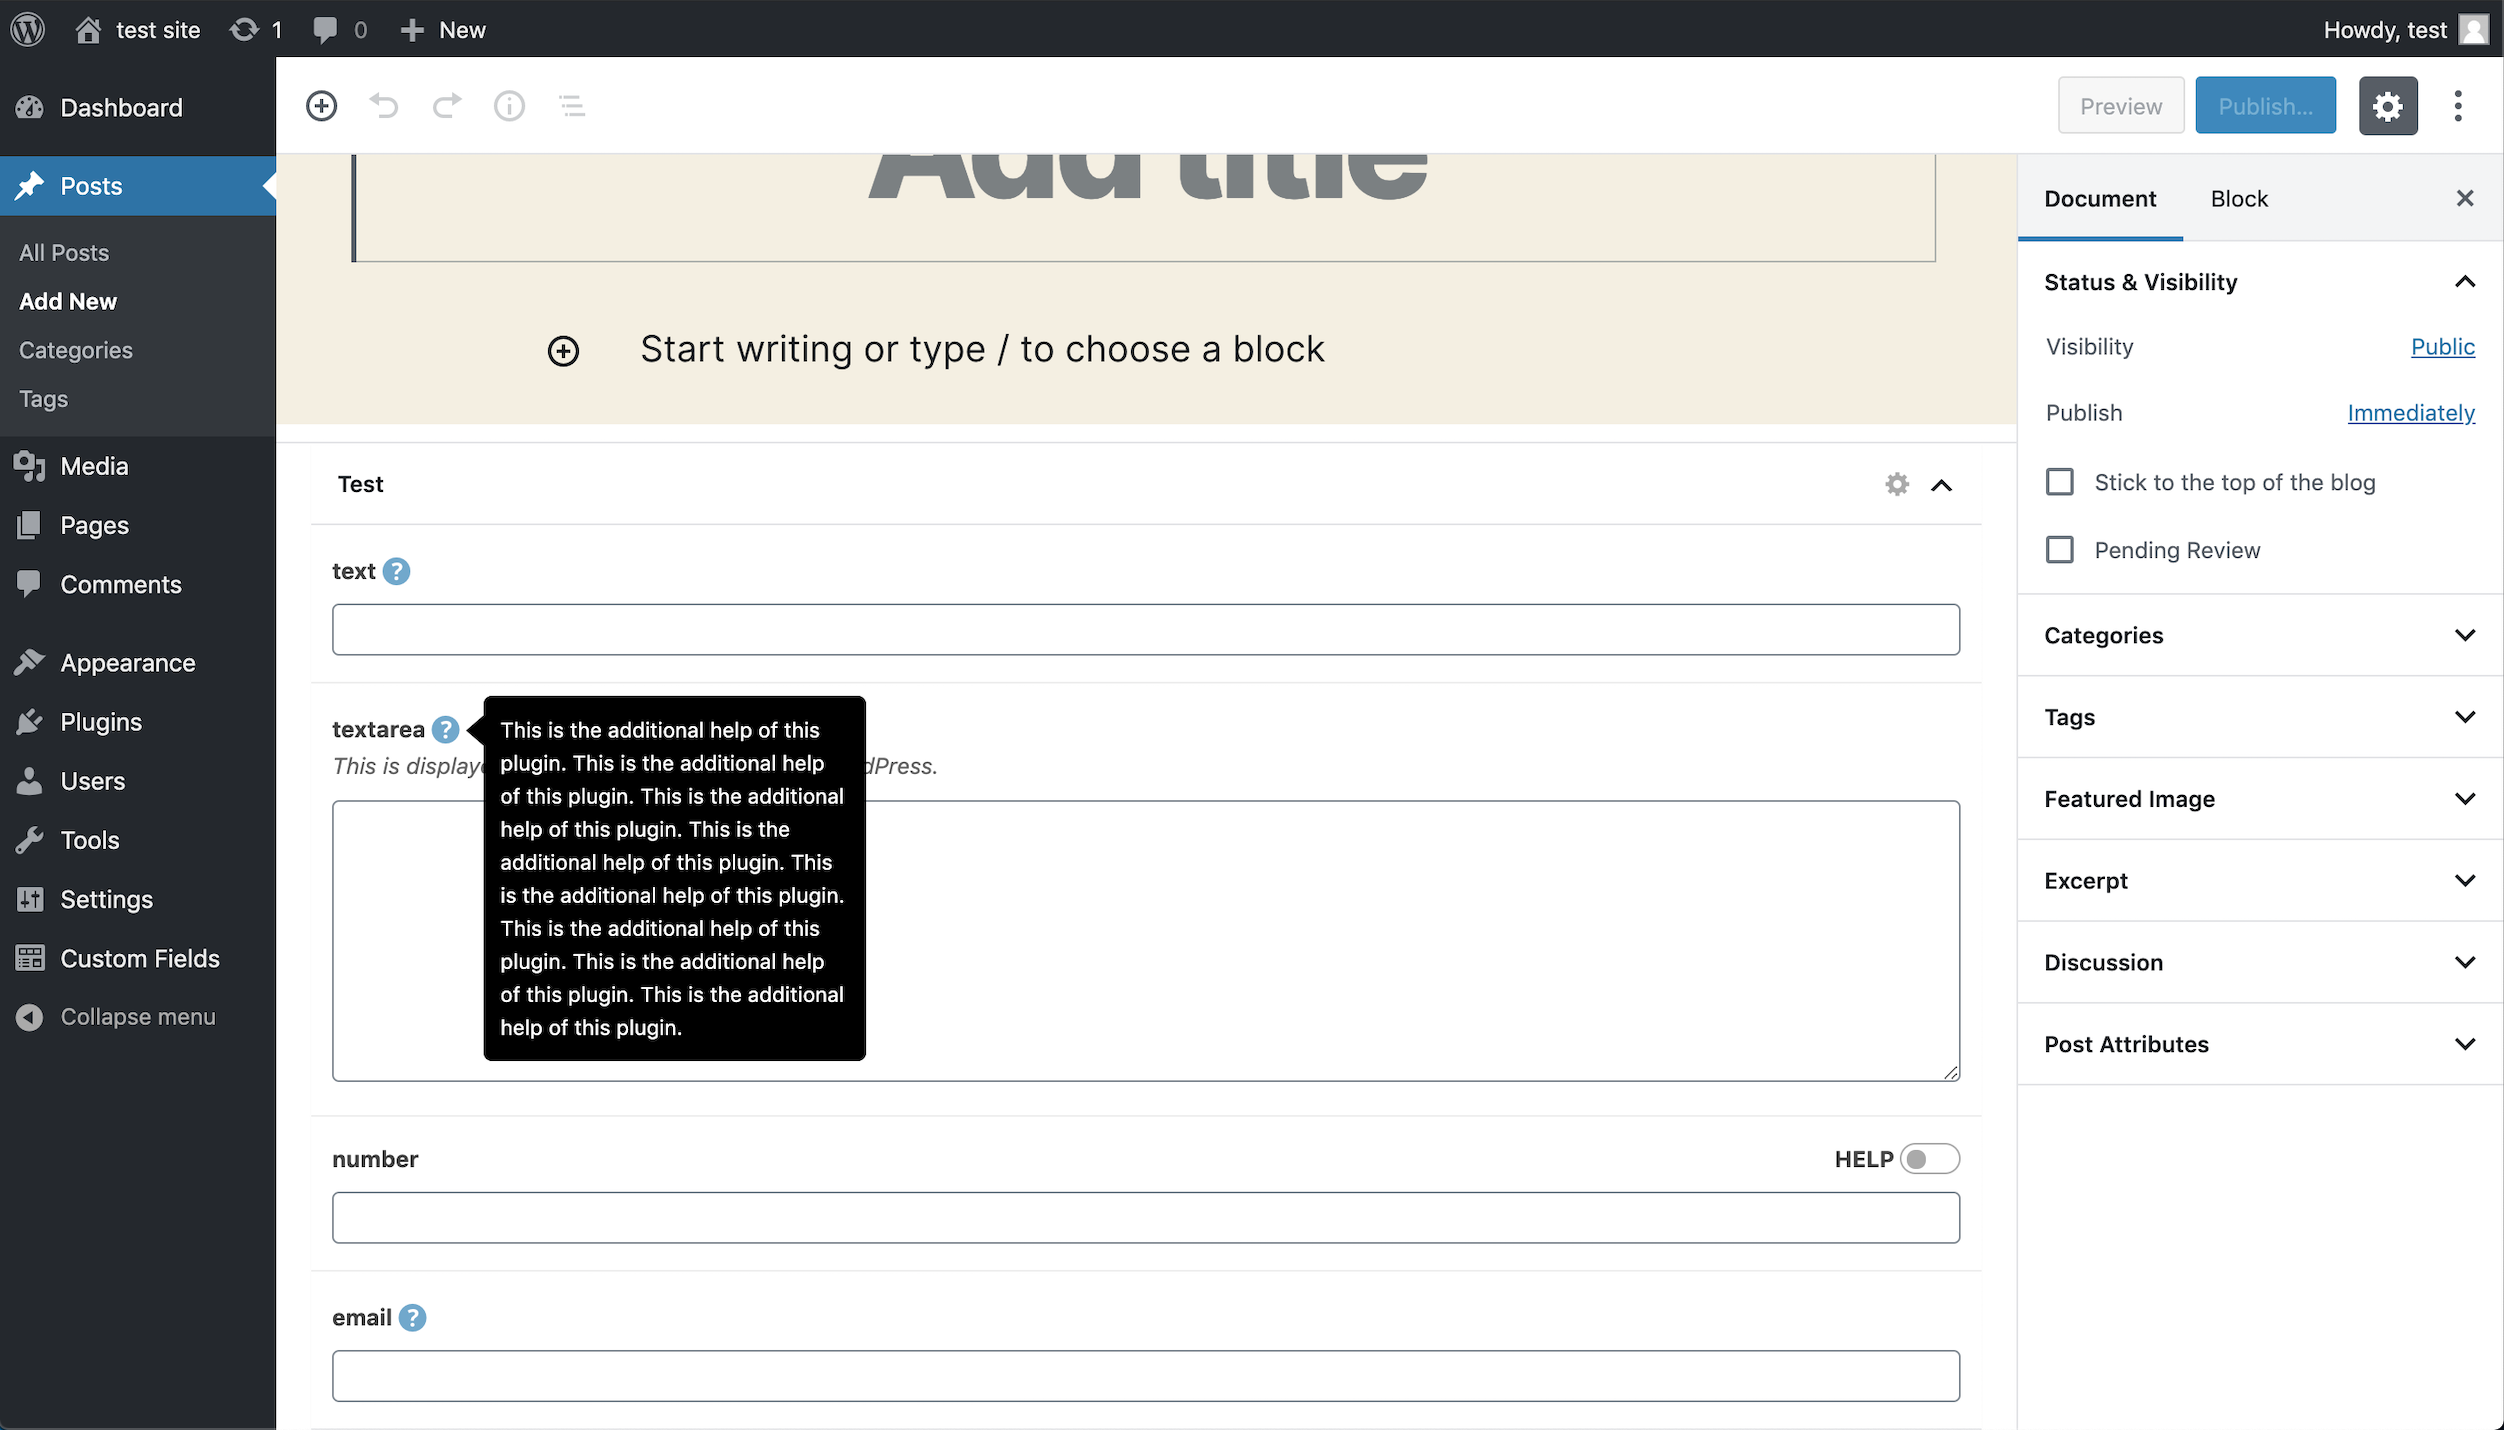
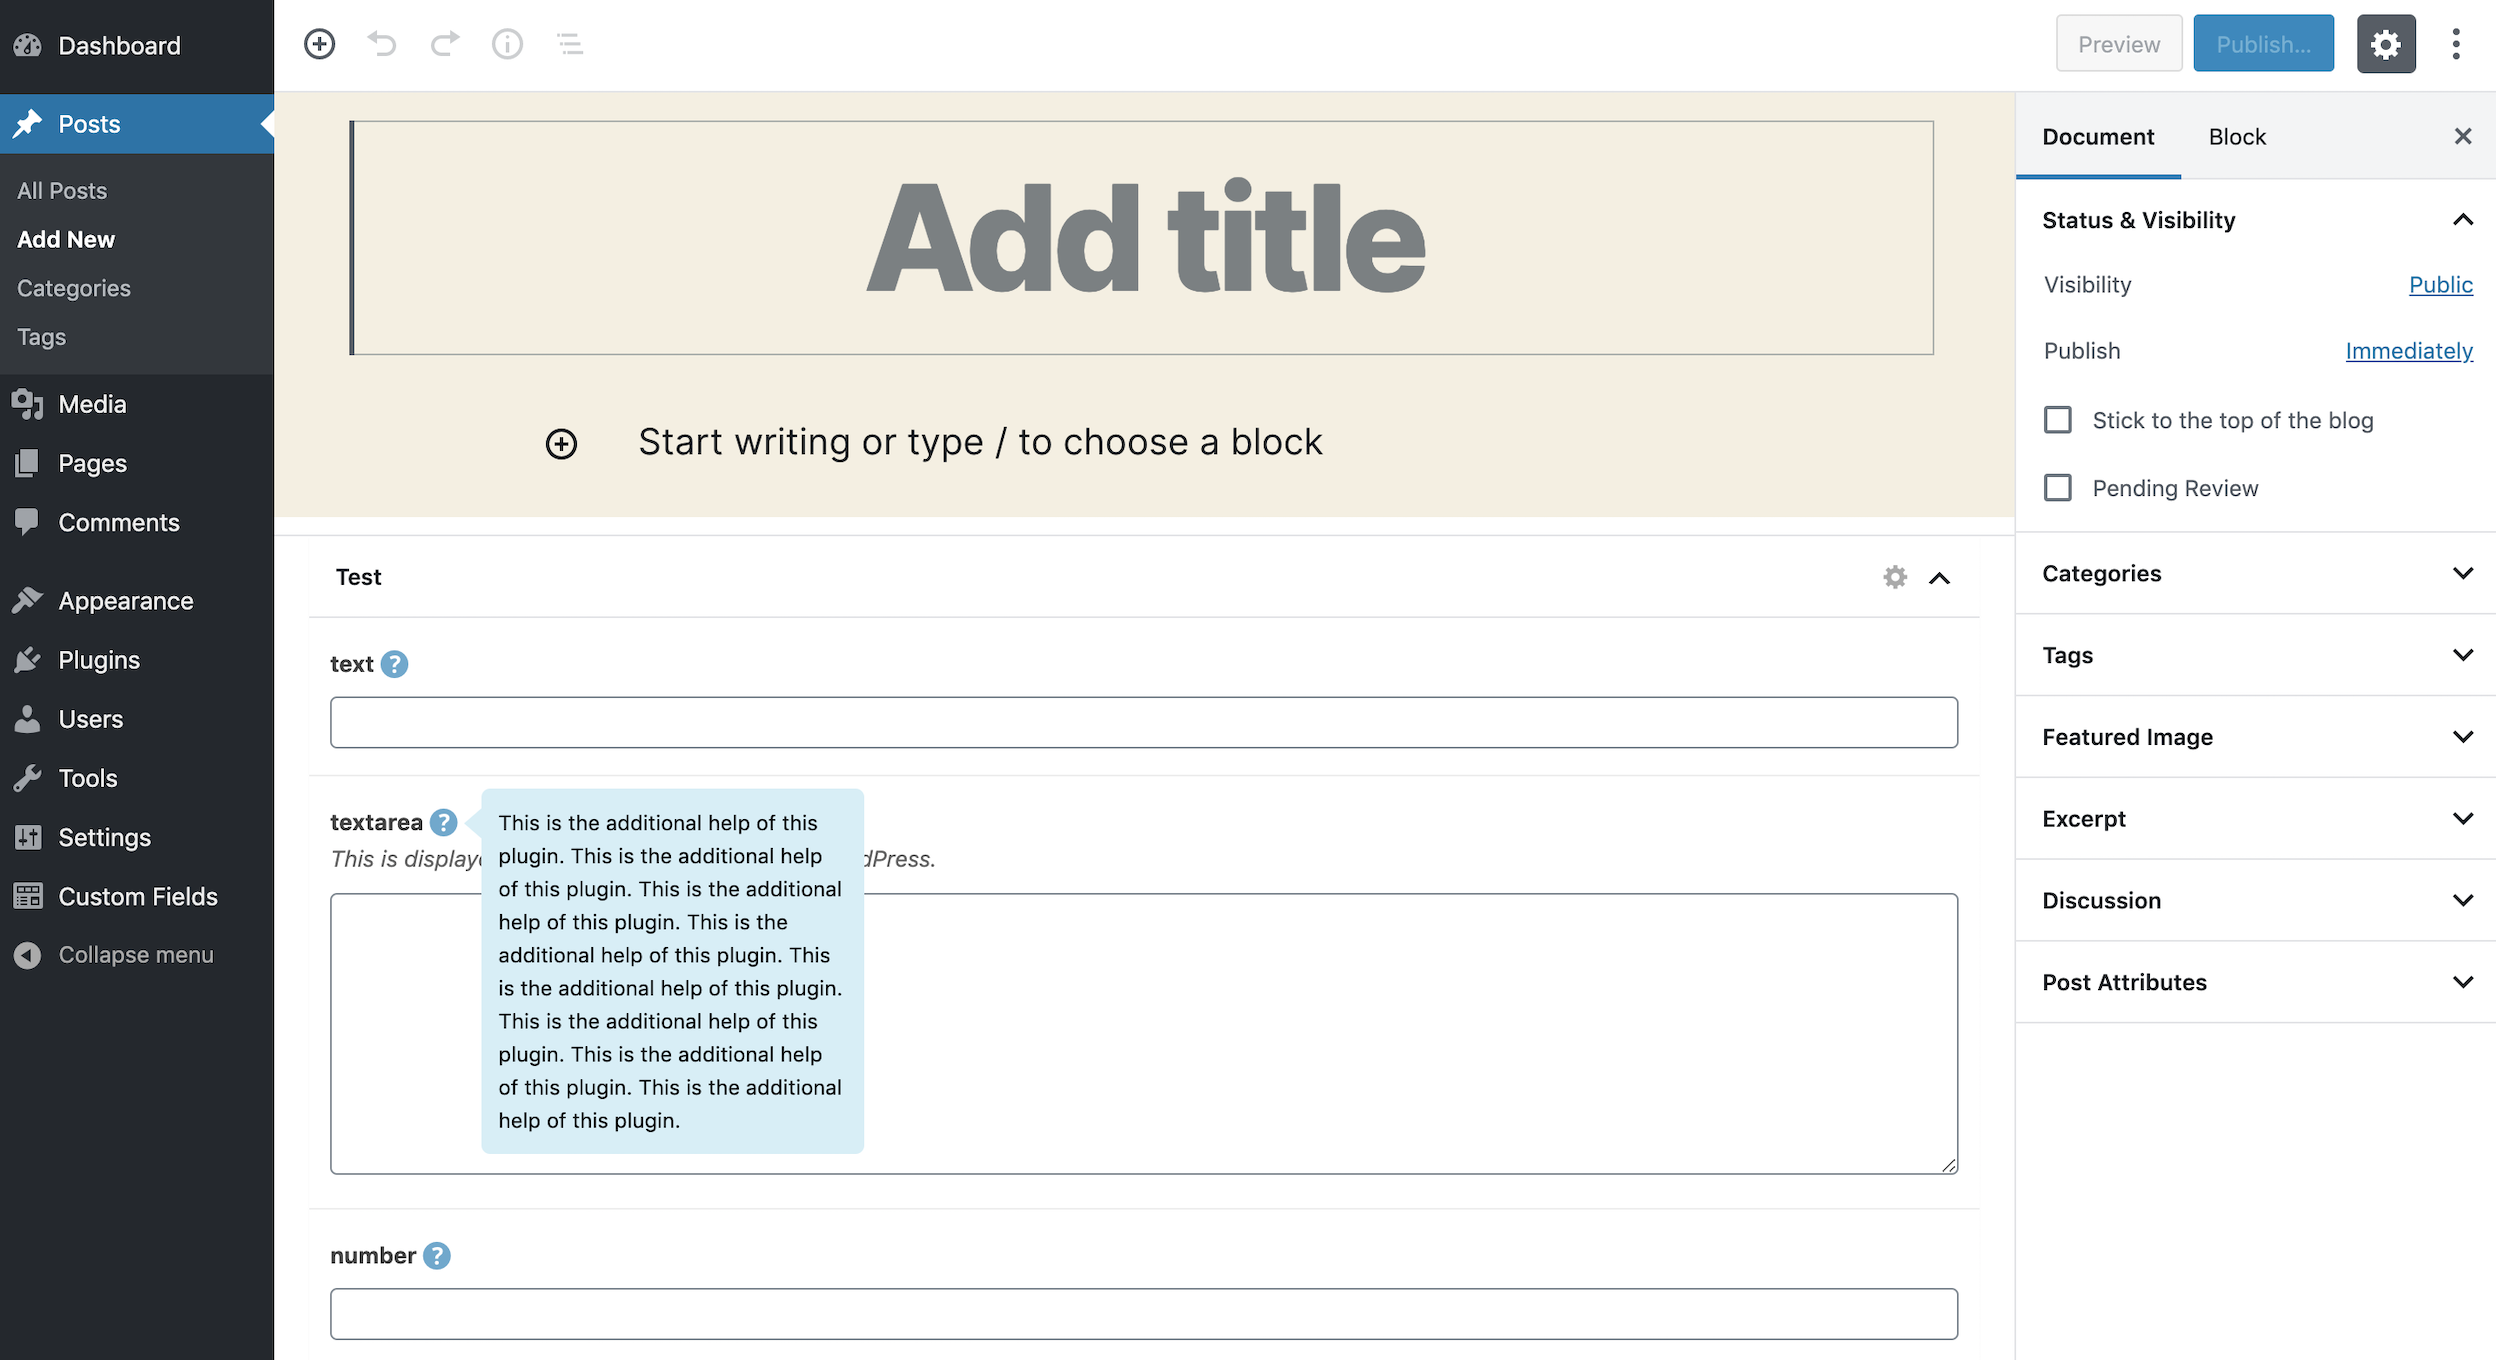
Change the design of tooltip

diff --git a/css/style.css b/css/style.css
@@ -28,9 +28,9 @@
     padding: 10px;
     font-size: 12px;
     line-height: 1.6em;
-    color: #fff;
+    color: #000000;
     border-radius: 5px;
-    background: #000;
+    background: #d3eef7;
     width: 200px;
     z-index: 10;
     word-wrap: break-word;
@@ -42,7 +42,7 @@
     top: 3%;
     right: 98%;
     border: 13px solid transparent;
-    border-top: 15px solid #000;
+    border-top: 15px solid #d3eef7;
     margin-left: -15px;
     transform: rotateZ(90deg);
 }

diff --git a/acf-additional-hint.php b/acf-additional-hint.php
@@ -102,13 +102,11 @@ class ACF_Additional_Hint {
 		// Get the version of this plugin.
 		$data = get_file_data( __FILE__, array( 'version' => 'Version' ) );
 
-		// Registers styles.
-		wp_register_style( 'additional-hint-plugin-style', plugin_dir_url(__FILE__) . 'css/style.css', false, $data['version'] );
-		wp_enqueue_style( 'additional-hint-plugin-style' );
+		// Loads styles.
+		wp_enqueue_style( 'additional-hint-plugin-style', plugin_dir_url(__FILE__) . 'css/style.css', false, $data['version'] );
 
-		// Registers scripts.
-		wp_register_script( 'additional-hint-plugin-script', plugin_dir_url(__FILE__) . 'js/main.js', false, $data['version'] );
-		wp_enqueue_script( 'additional-hint-plugin-script' );
+		// Loads scripts.
+		wp_enqueue_script( 'additional-hint-plugin-script', plugin_dir_url(__FILE__) . 'js/main.js', false, $data['version'], true );
 	}
 
 	/**
